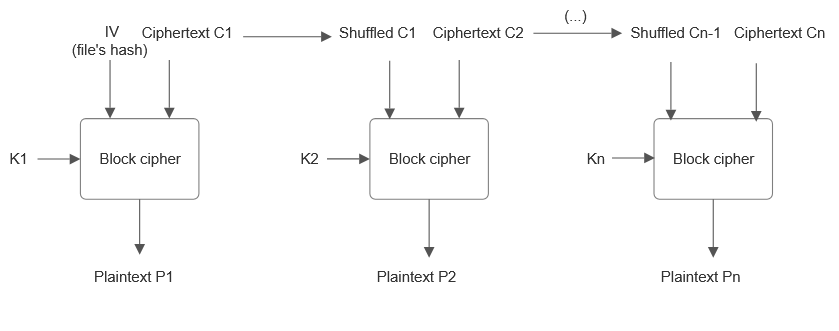
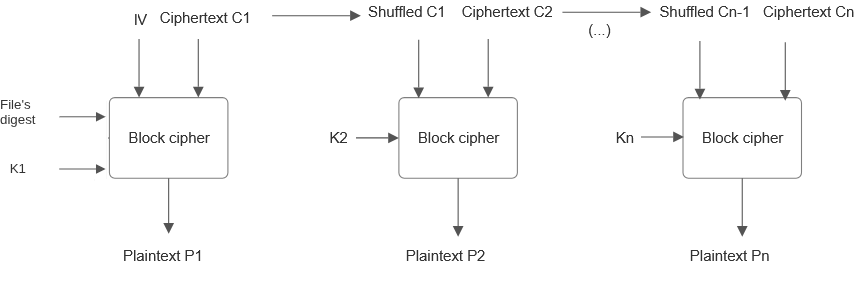
Enhancement: the message digest shall be used alongside an IV, and not replace it

diff --git a/README.md b/README.md
@@ -9,8 +9,10 @@ which has the basic properties of a hash function. Crafting it helped me compreh
 But unlike in hash functions, it should be done in a way that does not hinder the retrieval of the original plaintext.
 
 <sup>After some weeks of trial and error, a couple of plans that were as doomed as the Coyote's, and some other eureka! moments, my solution evolved to this:
-a CBC structure with the message digest of both the plaintext and the password as initialization vector, and then just... well, just any byte-by-byte modification of the input.
+a CBC structure with the message digest of both the plaintext and the password as initialization vector*, and then just... well, just any byte-by-byte modification of the input.
 Even a simple XOR operation might suffice.
+
+*<sup><sub> After talking with professional cryptographers, the message digest of the file and the password ought to be used along with an Initialization Vector, and not replacing it.
 
 
 ### An unbreakable (?) block cipher mode of operation
@@ -24,12 +26,11 @@ The first step of the encryption is to get the message digest (or hash, as it is
 It will be used as an input to the block cipher, and can then either be stored somewhere and be given by the user as input along with the key, 
 or be chaffed (dispersed) through the ciphertext only to be winnowed (retrieved and removed) before the decryption,
 or even just be pasted as is in a header. No matter the approach, in a good cipher, knowing the original digest without knowing the password should be of no value.
+The file digest can be used as an Initialization vector, but ideally, the file digest should be with an Initialization Vector.
 
 Using the file's digest in that way makes sure that every change on the plaintext, 
 however insignificant, is cascaded onto all the ciphertext in a chaotic manner.  And no matter how many plaintexts you encrypt with the same main key, 
-they always appear as random as if they were just digests. Many major forms of cryptanalysis are already rendered useless.
-
-The file digest can be used as an Initialization vector, but ideally, the file digest should be with an Initialization Vector.
+they always appear as random as if they were just digests. Many major forms of cryptanalysis are already rendered useless. 
 
 The second step is to use the digest and the key to encrypt the first block. The first block could
 use a pad-generator along with a regular cipher, using the key and the digest to generate a unique pad of equal length to the block (as APOCRYPTOR does). 
@@ -69,7 +70,7 @@ is used as a hash function. Blocks of 1024 bytes are used.
 
 We utilize the key and plaintext digest to generate a pad for the first block by using combinations
 of them to get some first message digests, which in turn are used to get some second message digests, and so on, until a pad of 1024 bytes
-is generated. 
+is generated. Using a proper IV as an extra input parameter is a TODO.
 
 The permutation step is a simple shuffling of the 32byte subblocks of the n-th block depending on the n-th digest of the original key. 
 The bytes of the digest are treated as integers and sorted from lowest to highest, with some special handling for repeated values. Let J the sorted
